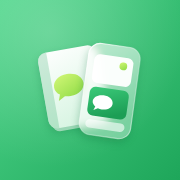
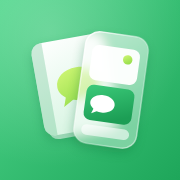
v1.2.4: 홈 화면 아이콘 비율을 레퍼런스에 맞추고 말풍선을 책 가운데로
- 그림 크기를 아이콘의 약 67%로 키우고 가운데 정렬
- 만화책 말풍선을 표지 가운데로 옮겨 휴대폰에 반쯤 가려지게 함
- 아이콘 주소 ?v=3, CLAUDE.md 규칙, HISTORY.md 기록

Claude-Session: https://claude.ai/code/session_01ALwpCR4EunuXChqh2hdBWz

Changed region(s): [[0.1667, 0.1667, 0.8333, 0.8333]]

diff --git a/index.html b/index.html
@@ -4,7 +4,7 @@
 <meta charset="UTF-8">
 <meta name="viewport" content="width=device-width, initial-scale=1.0, maximum-scale=1.0, user-scalable=no, viewport-fit=cover">
 <meta name="theme-color" content="#fafafa">
-<link rel="apple-touch-icon" href="apple-touch-icon.png?v=2">
+<link rel="apple-touch-icon" href="apple-touch-icon.png?v=3">
 <meta name="apple-mobile-web-app-title" content="toonbook">
 <title>Toon &amp; Book Archive</title>
 <link rel="preconnect" href="https://cdn.jsdelivr.net" crossorigin>
@@ -2732,7 +2732,7 @@
     </div>
 
     <div style="text-align: center; margin-top: 40px; font-size: 11px; color: var(--ink-mute); letter-spacing: 0.04em; font-weight: 500;">
-      v1.2.3 · 데이터는 브라우저에 저장됩니다
+      v1.2.4 · 데이터는 브라우저에 저장됩니다
     </div>
   </section>
 </main>

diff --git a/CLAUDE.md b/CLAUDE.md
@@ -35,10 +35,10 @@
 
 ## 3. 버전 관리
 
-- 버전은 설정 화면 맨 아래 문구 `vX.Y · 데이터는 브라우저에 저장됩니다`에 표시된다(검색어: `데이터는 브라우저에 저장됩니다`). **현재 v1.2.3**이다.
+- 버전은 설정 화면 맨 아래 문구 `vX.Y · 데이터는 브라우저에 저장됩니다`에 표시된다(검색어: `데이터는 브라우저에 저장됩니다`). **현재 v1.2.4**이다.
 - 올리는 기준:
-  - 기능 추가나 동작 변경: **v1.2.3 → v1.3**
-  - 작은 수정(문구, 표시 형식, 단순 버그): **v1.2.3 → v1.2.4**
+  - 기능 추가나 동작 변경: **v1.2.4 → v1.3**
+  - 작은 수정(문구, 표시 형식, 단순 버그): **v1.2.4 → v1.2.5**
 - 버전을 올리면 `HISTORY.md` 맨 위에 다음을 기록한다.
   - 날짜
   - 사용자가 요청한 것
@@ -185,7 +185,9 @@
 - 상세 화면에서 한줄 메모는 회차 진행 칸과 붙지 않게 여백을 충분히 둔다.
 - **홈 화면 아이콘** (v1.2.3에서 사용자가 준 레퍼런스 스타일로 다시 그림)
   - 스타일: **선명한 그린 그라데이션 배경 + 반투명 유리 느낌의 도형**. 흰 만화책(라임색 말풍선) 위에 반투명 휴대폰(웹툰 컷)을 겹친다. 포인트 색은 라임 그린이다.
-  - 종이 만화책과 웹툰(휴대폰 화면)을 **같이** 넣고, 아이콘에 꽉 차게 그리지 않는다(사용자 요청). 그림은 아이콘 폭의 60% 이내로 한다.
+  - 종이 만화책과 웹툰(휴대폰 화면)을 **같이** 넣는다.
+  - **그림 크기는 레퍼런스 비율에 맞춘다**(v1.2.4, 사용자 요청): 그림이 아이콘 가로·세로의 약 67%를 차지하고 가운데에 온다. 이보다 꽉 차게 그리지 않는다.
+  - **만화책 말풍선은 책 표지 가운데**에 두고, 휴대폰에 반쯤 가려지게 한다(v1.2.4, 사용자 요청). 다 보이게 옮기지 않는다.
   - 아이폰은 투명한 부분을 검게 칠하므로 배경은 불투명하게 둔다.
   - 고칠 때는 `icon.svg`를 고친 뒤 Playwright로 180×180 PNG를 다시 만들어 `apple-touch-icon.png`를 바꾼다.
   - 아이폰은 아이콘을 저장해두기 때문에, 바꾼 뒤에는 홈 화면 아이콘을 지우고 다시 추가해야 반영된다. 아이콘을 바꿀 때마다 `index.html`의 `apple-touch-icon.png?v=숫자`를 하나 올려서 예전 그림이 남지 않게 한다.

diff --git a/HISTORY.md b/HISTORY.md
@@ -8,6 +8,20 @@ v1.0 기간에는 버전을 올리지 않고 계속 고쳤기 때문에, 그때 
 
 ---
 
+## v1.2.4 — 2026-11-10 · 홈 화면 아이콘 비율·말풍선
+
+**요청:** 레퍼런스처럼 비율을 맞추고, 만화책 말풍선은 다 보일 필요 없이 책 가운데에서 반쯤 가려지게
+
+- 그림 크기를 레퍼런스 아이콘들의 비율에 맞춰 키웠다(아이콘의 약 58% → 약 67%, 가운데 정렬).
+- 만화책 말풍선을 책 표지 가운데로 옮겼다. 오른쪽 절반쯤은 휴대폰에 가려지고, 유리 너머로 흐리게 비친다.
+
+**직접 정한 부분**
+- "비율"은 아이콘 안에서 그림이 차지하는 크기로 이해했다. 레퍼런스 아이콘들은 그림이 63~70%쯤이어서 그 가운데인 67%로 맞췄다.
+- 말풍선이 반쯤 가려지도록 휴대폰을 책 쪽으로 조금 더 겹쳤다.
+- 아이콘 주소를 `?v=3`으로 올렸다.
+
+---
+
 ## v1.2.3 — 2026-11-10 · 홈 화면 아이콘 다시 디자인
 
 **요청:** 레퍼런스 이미지(선명한 색 배경에 반투명 유리 느낌 도형을 겹친 아이콘들)와 비슷하게 다시 디자인
